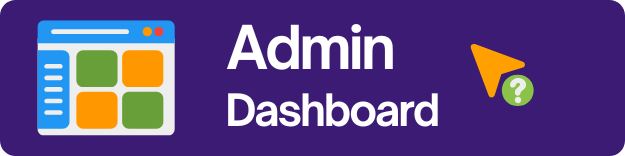
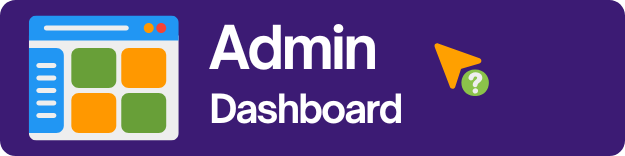
Protfolio User Link or link3 add

diff --git a/resources/views/admin/portfolio/show.blade.php b/resources/views/admin/portfolio/show.blade.php
@@ -4,11 +4,11 @@
 
 <!-- Start Content-->
 <div class="container-fluid">
-    
+
     <!-- start page title -->
     <!-- Include page breadcrumb -->
     @include('admin.inc.breadcrumb')
-    <!-- end page title --> 
+    <!-- end page title -->
 
 
     <div class="row">
@@ -18,7 +18,7 @@
     </div>
 
     <div class="row">
-        <div class="col-12 col-lg-8">
+        <div class="col-12 col-lg-12">
             <div class="card">
                 <div class="card-header">
                     <h4 class="header-title">{{ __('dashboard.view') }} {{ $title }}</h4>
@@ -27,19 +27,19 @@
 
                     <!-- Details View Start -->
                     <h4><span class="text-highlight">{{ __('dashboard.title') }}:</span> {{ $row->title }}</h4>
-                    <p><span class="text-highlight">{{ __('dashboard.category') }}:</span> 
+                    <p><span class="text-highlight">{{ __('dashboard.category') }}:</span>
                         @foreach($row->categories as $category)
-                            <span class="badge badge-primary">{{ $category->title }}</span> 
+                        <span class="badge badge-primary">{{ $category->title }}</span>
                         @endforeach
                     </p>
-                    <hr/>
+                    <hr />
 
                     @if(!empty($row->video_id))
                     <p><span class="text-highlight">{{ __('dashboard.youtube_video') }}:</span></p>
                     <div class="embed-responsive embed-responsive-16by9">
-                      <iframe class="embed-responsive-item" src="https://www.youtube.com/embed/{{ $row->video_id }}?rel=0" allowfullscreen></iframe>
+                        <iframe class="embed-responsive-item" src="https://www.youtube.com/embed/{{ $row->video_id }}?rel=0" allowfullscreen></iframe>
                     </div>
-                    <br/>
+                    <br />
                     @endif
 
                     @if(is_file('uploads/'.$path.'/'.$row->image_path))
@@ -47,20 +47,28 @@
                     <img src="{{ asset('uploads/'.$path.'/'.$row->image_path) }}" class="img-fluid" alt="Portfolio">
                     @endif
 
-                    <hr/>
+                    <hr />
                     <p><span class="text-highlight">{{ __('dashboard.description') }}:</span> {!! $row->description !!}</p>
 
                     @if(!empty($row->link))
-                    <hr/>
+                    <hr />
                     <p><span class="badge badge-primary">{{ __('dashboard.web_link') }}:</span> <a href="{{ $row->link }}" target="_blank">{{ $row->link }}</a></p>
                     @endif
-                    <hr/>
-                    <p><span class="text-highlight">{{ __('dashboard.status') }}:</span> 
-                    @if( $row->status == 1 )
-                    <span class="badge badge-success badge-pill">{{ __('dashboard.active') }}</span>
-                    @else
-                    <span class="badge badge-danger badge-pill">{{ __('dashboard.inactive') }}</span>
+                    @if(!empty($row->link2))
+                    <hr />
+                    <p><span class="badge badge-primary">{{ __('Admin Panel') }}:</span> <a href="{{ $row->link2 }}" target="_blank">{{ $row->link2 }}</a></p>
                     @endif
+                    @if(!empty($row->link3))
+                    <hr />
+                    <p><span class="badge badge-primary">{{ __('User Panel') }}:</span> <a href="{{ $row->link3 }}" target="_blank">{{ $row->link3 }}</a></p>
+                    @endif
+                    <hr />
+                    <p><span class="text-highlight">{{ __('dashboard.status') }}:</span>
+                        @if( $row->status == 1 )
+                        <span class="badge badge-success badge-pill">{{ __('dashboard.active') }}</span>
+                        @else
+                        <span class="badge badge-danger badge-pill">{{ __('dashboard.inactive') }}</span>
+                        @endif
                     </p>
                     <!-- Details View End -->
                 </div>
@@ -69,7 +77,7 @@
     </div>
     <!-- end row-->
 
-    
+
 </div> <!-- container -->
 <!-- End Content-->
 

diff --git a/resources/views/admin/portfolio/create.blade.php b/resources/views/admin/portfolio/create.blade.php
@@ -86,8 +86,16 @@
                             </div>
                         </div>
                         <div class="form-group">
-                            <label for="link2">Admin Link</label>
+                            <label for="link2">Admin Panel</label>
                             <input type="url" class="form-control" name="link2" id="link2" value="{{ old('link2') }}">
+
+                            <div class="invalid-feedback">
+                                {{ __('dashboard.please_provide') }} {{ __('dashboard.web_link') }}
+                            </div>
+                        </div>
+                        <div class="form-group">
+                            <label for="link3">User Panel</label>
+                            <input type="url" class="form-control" name="link3" id="link3" value="{{ old('link3') }}">
 
                             <div class="invalid-feedback">
                                 {{ __('dashboard.please_provide') }} {{ __('dashboard.web_link') }}

diff --git a/resources/views/admin/portfolio/edit.blade.php b/resources/views/admin/portfolio/edit.blade.php
@@ -91,8 +91,16 @@
                             </div>
                         </div>
                         <div class="form-group">
-                            <label for="link2">Admin Link</label>
+                            <label for="link2">Admin Panel</label>
                             <input type="url" class="form-control" name="link2" id="link2" value="{{ $row->link2 }}">
+
+                            <div class="invalid-feedback">
+                                {{ __('dashboard.please_provide') }} {{ __('dashboard.web_link') }}
+                            </div>
+                        </div>
+                        <div class="form-group">
+                            <label for="link3">User Panel</label>
+                            <input type="url" class="form-control" name="link3" id="link3" value="{{ $row->link3 }}">
 
                             <div class="invalid-feedback">
                                 {{ __('dashboard.please_provide') }} {{ __('dashboard.web_link') }}

diff --git a/resources/views/web/portfolio-single.blade.php b/resources/views/web/portfolio-single.blade.php
@@ -142,6 +142,11 @@ $header = \App\Models\PageSetup::page('portfolio');
                         <a target="_blank" href="{{ $portfolio->link2 }}"><img style="width:100%; height: 100%; box-shadow: 10px 10px 8px #888888;" src="{{ asset('uploads/portfolio/view/Admin.png') }}" alt="Admin view"></a>
                     </div>
                     @endif
+                    @if (!empty($portfolio->link3))
+                    <div class="content-column col-lg-6 col-md-6 col-sm-12">
+                        <a target="_blank" href="{{ $portfolio->link3 }}"><img style="width:100%; height: 100%; box-shadow: 10px 10px 8px #888888;" src="{{ asset('uploads/portfolio/view/User.png') }}" alt="Admin view"></a>
+                    </div>
+                    @endif
                 </div>
             </div>
 

diff --git a/app/Http/Controllers/Admin/PortfolioController.php b/app/Http/Controllers/Admin/PortfolioController.php
@@ -157,6 +157,7 @@ class PortfolioController extends Controller
         $portfolio->video_id = $request->video_id;
         $portfolio->link = $request->link;
         $portfolio->link2 = $request->link2;
+        $portfolio->link3 = $request->link3;
         $portfolio->save();
 
         // Attach
@@ -309,6 +310,7 @@ class PortfolioController extends Controller
         $portfolio->video_id = $request->video_id;
         $portfolio->link = $request->link;
         $portfolio->link2 = $request->link2;
+        $portfolio->link3 = $request->link3;
         $portfolio->status = $request->status;
         $portfolio->save();
 

diff --git a/database/migrations/2020_10_20_054101_create_portfolios_table.php b/database/migrations/2020_10_20_054101_create_portfolios_table.php
@@ -22,6 +22,7 @@ class CreatePortfoliosTable extends Migration
             $table->string('video_id')->nullable();
             $table->string('link')->nullable();
             $table->string('link2')->nullable();
+            $table->string('link3')->nullable();
             $table->boolean('status')->default('1');
             $table->timestamps();
         });
